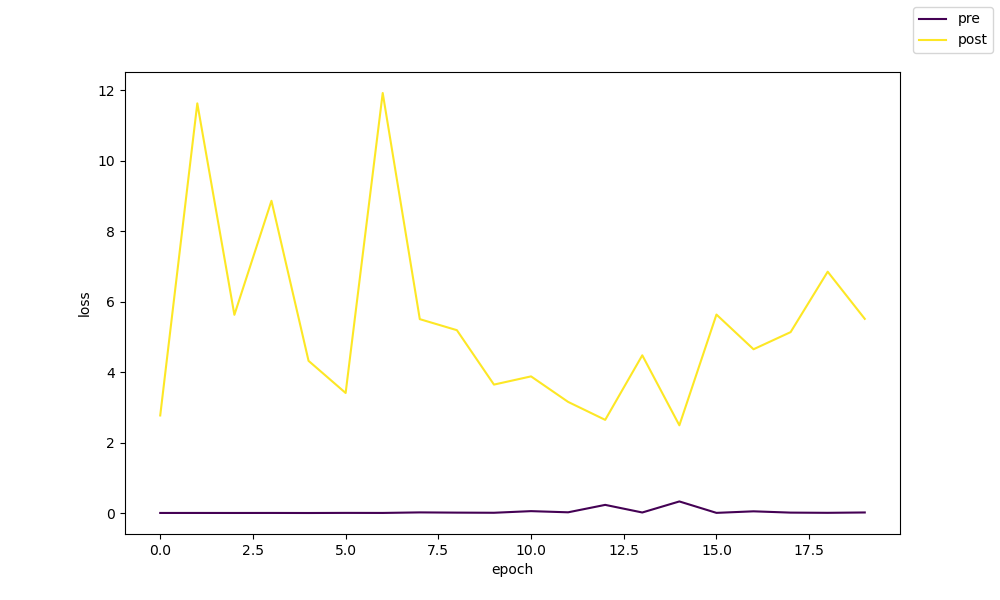
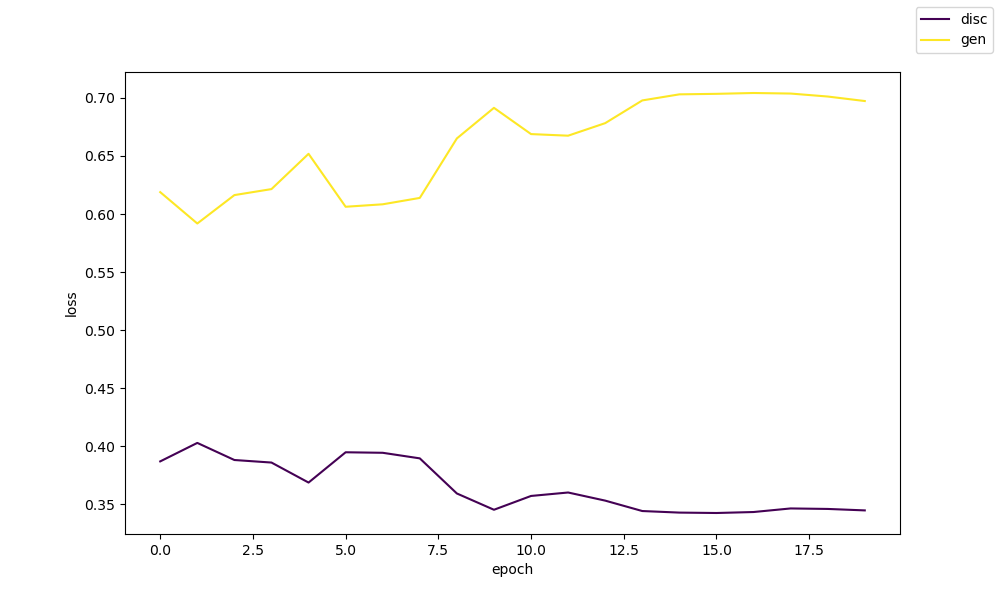
KZ-137: interleave generator and discriminator training

diff --git a/ml/examples/gan_mnist/__init__.py b/ml/examples/gan_mnist/__init__.py
@@ -1,6 +1,7 @@
 import torch
 from torch import nn
 from torchvision.datasets import MNIST
+from torchvision.transforms import ToTensor
 from torch.utils.data import DataLoader
 import matplotlib.pyplot as plt
 from tqdm import tqdm
@@ -8,38 +9,15 @@ from tqdm import tqdm
 from common.plots import plot_line_graphs, plot_image_grid
 from helpers import get_device, get_dir, manual_seed
 from .models import Discriminator, Generator
-from .datasets import NoiseDataset, MixedDataset
 
 DEVICE = get_device()
 DIR = get_dir(__file__)
 
 
-def create_mixed_dataloader(mnist_data, generator, seed=23):
-    manual_seed(seed)
-    generator.eval()
-    with torch.inference_mode():
-        train_disc_dataset = MixedDataset(
-            mnist_data.data.unsqueeze(1).float() / 255,
-            generator.generate_data_from_noise(len(mnist_data.data)),
-            DEVICE,
-        )
-        train_disc_dataloader = DataLoader(
-            train_disc_dataset, batch_size=32, shuffle=True
-        )
-
-    return train_disc_dataloader
-
-
-def create_noise_dataloader(size, dim, seed=23):
-    manual_seed(seed)
-    gen_dataset = NoiseDataset(size, dim, DEVICE)
-    gen_dataloader = DataLoader(gen_dataset, batch_size=32, shuffle=True)
-    return gen_dataloader
-
-
 def plot_generator_output(generator, label):
-    generator.eval()
-    x_grid = generator.generate_data_from_noise(100).reshape(10, 10, 28, 28)
+    manual_seed(23)
+    noise = torch.randn(100, 16).to(DEVICE)
+    x_grid = generator(noise).reshape(10, 10, 28, 28)
     fig, _ = plot_image_grid(x_grid.cpu().detach())
     fig.savefig(f"{DIR}/results/generated/{label}.png")
     plt.close(fig)
@@ -47,11 +25,17 @@ def plot_generator_output(generator, label):
 
 def run():
     manual_seed(23)
-    train_mnist = MNIST("datasets", download=True, train=True)
-    test_mnist = MNIST("datasets", download=True, train=False)
-
     d_model = Discriminator().to(DEVICE)
     g_model = Generator().to(DEVICE)
+
+    manual_seed(23)
+    train_mnist = MNIST("datasets", download=True, train=True, transform=ToTensor())
+    train_mnist_dl = DataLoader(train_mnist, batch_size=32, shuffle=True)
+    test_mnist = MNIST("datasets", download=True, train=False, transform=ToTensor())
+    test_mnist_dl = DataLoader(test_mnist, batch_size=32)
+
+    manual_seed(23)
+    noise = torch.randn(2, len(train_mnist_dl), 32, 16).to(DEVICE)
 
     if d_model.can_load(f"{DIR}/models") and g_model.can_load(f"{DIR}/models"):
         d_model.load(f"{DIR}/models")
@@ -61,50 +45,61 @@ def run():
         d_model.compile(nn.BCEWithLogitsLoss())
         g_model.compile(nn.BCEWithLogitsLoss())
 
-        pre_gen_loss_history = []
-        post_gen_loss_history = []
-        pre_gen_acc_history = []
-        post_gen_acc_history = []
+        d_loss_history = []
+        d_acc_history = []
+        g_loss_history = []
+
         for epoch in tqdm(range(20)):
-            # train discriminator
-            train_disc_dataloader = create_mixed_dataloader(train_mnist, g_model)
-            d_model.train()
-            for x, y in train_disc_dataloader:
-                d_model.train_batch(x, y)
+            for i, (x, _) in enumerate(train_mnist_dl):
+                # train discriminator on real data
+                d_model.train()
+                y = torch.ones(32).to(DEVICE)
+                d_model.train_batch(x.to(DEVICE), y.to(DEVICE).float())
 
-            # evaluate discriminator (pre gen round)
+                # train discriminator on fake data
+                x_hat = g_model(noise[0][i])
+                y = torch.zeros(32).to(DEVICE)
+                d_model.train_batch(x_hat, y)
+
+                # train generator
+                g_model.train()
+                y = torch.ones(32).to(DEVICE)
+                g_model.train_batch(noise[1][i], y, d_model)
+
+            # evaluate discriminator loss/acc
             d_model.eval()
             with torch.inference_mode():
-                test_disc_dataloader = create_mixed_dataloader(test_mnist, g_model)
                 av_loss = 0
                 av_acc = 0
-                for x, y in test_disc_dataloader:
-                    y_hat = d_model(x)
+                for i, (x, _) in enumerate(test_mnist_dl):
+                    x = x.to(DEVICE)
+                    y = torch.ones(len(x)).to(DEVICE)
+                    y_hat = d_model(x).squeeze()
                     av_loss += d_model.loss_fn(y_hat, y).item()
                     av_acc += y_hat.sigmoid().round().eq(y).float().mean().item()
-            pre_gen_loss_history.append(av_loss / len(test_disc_dataloader))
-            pre_gen_acc_history.append(av_acc / len(test_disc_dataloader))
 
-            # train generator
-            g_model.train()
-            gen_dataloader = create_noise_dataloader(
-                len(train_mnist), g_model.noise_dim
-            )
-            for z, y in gen_dataloader:
-                g_model.train_batch(z, y, d_model)
+                    z = noise[0][i]
+                    x = g_model(z)
+                    y_hat = d_model(x_hat).squeeze()
+                    y = torch.zeros(32).to(DEVICE)
+                    av_loss += d_model.loss_fn(y_hat, y).item()
+                    av_acc += y_hat.sigmoid().round().eq(y).float().mean().item()
 
-            # evaluate discriminator (post gen round)
-            d_model.eval()
+                av_loss /= 2 * len(test_mnist_dl)
+                av_acc /= 2 * len(test_mnist_dl)
+                d_loss_history.append(av_loss)
+                d_acc_history.append(av_acc)
+
+            # evaluate generator loss
+            g_model.eval()
             with torch.inference_mode():
-                test_disc_dataloader = create_mixed_dataloader(test_mnist, g_model)
                 av_loss = 0
-                av_acc = 0
-                for x, y in test_disc_dataloader:
-                    y_hat = d_model(x)
-                    av_loss += d_model.loss_fn(y_hat, y).item()
-                    av_acc += y_hat.sigmoid().round().eq(y).float().mean().item()
-            post_gen_loss_history.append(av_loss / len(test_disc_dataloader))
-            post_gen_acc_history.append(av_acc / len(test_disc_dataloader))
+                for z in noise[1]:
+                    x_hat = g_model(z)
+                    y_hat = d_model(x_hat).squeeze()
+                    y = torch.ones(32).to(DEVICE)
+                    av_loss += g_model.loss_fn(y_hat, y).item()
+                g_loss_history.append(av_loss / len(noise[1]))
 
             # plot mid-training generator outputs
             plot_generator_output(g_model, f"epoch_{epoch+1}")
@@ -113,17 +108,13 @@ def run():
         g_model.save(f"{DIR}/models")
 
         # plot loss/acc
-        fig = plot_line_graphs(
-            [pre_gen_loss_history, post_gen_loss_history], ["pre", "post"]
-        )
+        fig = plot_line_graphs([d_loss_history, g_loss_history], ["disc", "gen"])
         plt.xlabel("epoch")
         plt.ylabel("loss")
         fig.savefig(f"{DIR}/results/loss.png")
         plt.close(fig)
 
-        fig = plot_line_graphs(
-            [pre_gen_acc_history, post_gen_acc_history], ["pre", "post"]
-        )
+        fig = plot_line_graphs([d_acc_history], ["disc"])
         plt.xlabel("epoch")
         plt.ylabel("accuracy")
         fig.savefig(f"{DIR}/results/accuracy.png")

diff --git a/ml/examples/gan_mnist/models.py b/ml/examples/gan_mnist/models.py
@@ -32,15 +32,15 @@ class Discriminator(Model):
         return self.layers(x)
 
     def compile(self, loss_fn):
-        self.optimizer = torch.optim.SGD(self.parameters(), lr=1e-2)
+        self.optimizer = torch.optim.SGD(self.parameters(), lr=0.1)
         self.loss_fn = loss_fn
         self.is_compiled = True
 
-    def train_batch(self, x, y):
+    def train_batch(self, x, y) -> float:
         if not self.is_compiled:
             raise RuntimeError("Model must be compiled before training")
 
-        y_hat = self(x)
+        y_hat = self(x).squeeze()
         loss = self.loss_fn(y_hat, y)
         loss.backward()
         self.optimizer.step()
@@ -85,24 +85,18 @@ class Generator(Model):
         self.loss_fn = loss_fn
         self.is_compiled = True
 
-    def train_batch(self, z, y, discriminator):
+    def train_batch(self, z, y, discriminator) -> float:
         if not self.is_compiled:
             raise RuntimeError("Model must be compiled before training")
 
         x_hat = self(z)
-        y_hat = discriminator(x_hat)
+        y_hat = discriminator(x_hat).squeeze()
         loss = self.loss_fn(y_hat, y)
         loss.backward()
         self.optimizer.step()
         self.optimizer.zero_grad()
 
         return loss.item()
-
-    def generate_data_from_noise(self, size, seed=23):
-        manual_seed(seed)
-        device = next(self.parameters()).device
-        noise = torch.randn(size, self.noise_dim)
-        return self(noise.to(device))
 
     def id(self):
         return f"{self.__class__.__name__}"
